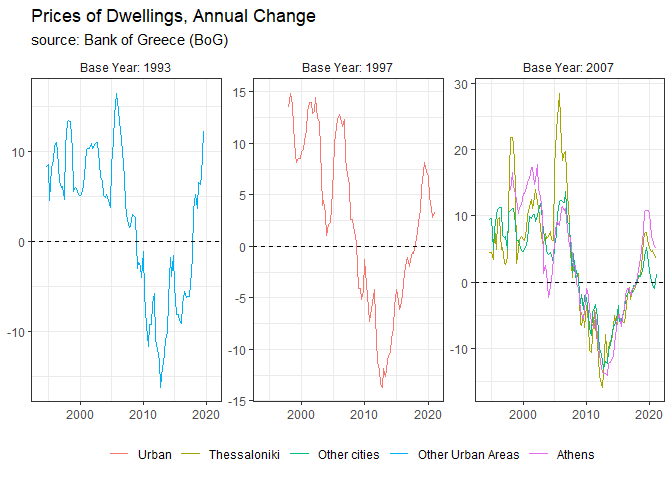
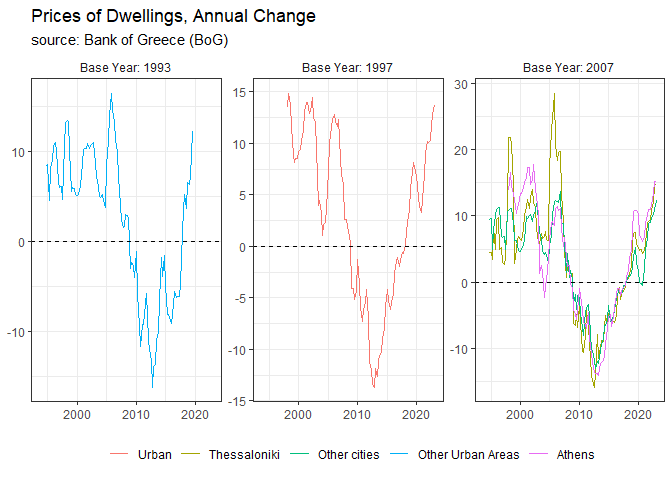
update to recent data

diff --git a/README.md b/README.md
@@ -15,7 +15,7 @@ to bring our data in tidy format.
 source("analysis.R")
 prices <- get_hp()
 prices
-#> # A tibble: 518 x 4
+#> # A tibble: 550 × 4
 #>    date       name  value  base
 #>    <date>     <fct> <dbl> <dbl>
 #>  1 1997-01-01 Urban  96.2  1997
@@ -28,10 +28,10 @@ prices
 #>  8 1998-10-01 Urban 118.   1997
 #>  9 1999-01-01 Urban 120.   1997
 #> 10 1999-04-01 Urban 124.   1997
-#> # ... with 508 more rows
+#> # ℹ 540 more rows
 ```
 
-Plot the data according to the base year in order to make meaningfull
+Plot the data according to the base year in order to make meaningful
 comparisons.
 
 ``` r
@@ -39,7 +39,7 @@ prices %>%
   mutate(base = paste0("Base Year: ", base)) %>% 
   ggplot(aes(date, value, col = name)) +
   geom_line() +
-  facet_wrap(~ base, scales = "free_y", labeller = ) +
+  facet_wrap(~ base, scales = "free_y",) +
   theme_bw() +
   labs(
     title = "Index of Prices of Dwellings",
@@ -76,12 +76,12 @@ prices %>%
     legend.title = element_blank(),
     legend.position = "bottom"
   )
-#> i Filling 1 value.
-#> i Filling 1 value.
-#> i Filling 1 value.
-#> i Filling 1 value.
-#> i Filling 1 value.
-#> Warning: Removed 5 row(s) containing missing values (geom_path).
+#> ℹ Filling 1 value.
+#> ℹ Filling 1 value.
+#> ℹ Filling 1 value.
+#> ℹ Filling 1 value.
+#> ℹ Filling 1 value.
+#> Warning: Removed 5 rows containing missing values (`geom_line()`).
 ```
 
 ![](README_files/figure-gfm/plot-ret-1.png)<!-- -->
@@ -108,12 +108,12 @@ prices %>%
     legend.title = element_blank(),
     legend.position = "bottom"
   )
-#> i Filling 4 values.
-#> i Filling 4 values.
-#> i Filling 4 values.
-#> i Filling 4 values.
-#> i Filling 4 values.
-#> Warning: Removed 20 row(s) containing missing values (geom_path).
+#> ℹ Filling 4 values.
+#> ℹ Filling 4 values.
+#> ℹ Filling 4 values.
+#> ℹ Filling 4 values.
+#> ℹ Filling 4 values.
+#> Warning: Removed 20 rows containing missing values (`geom_line()`).
 ```
 
 ![](README_files/figure-gfm/plot-ret-yoy-1.png)<!-- -->
